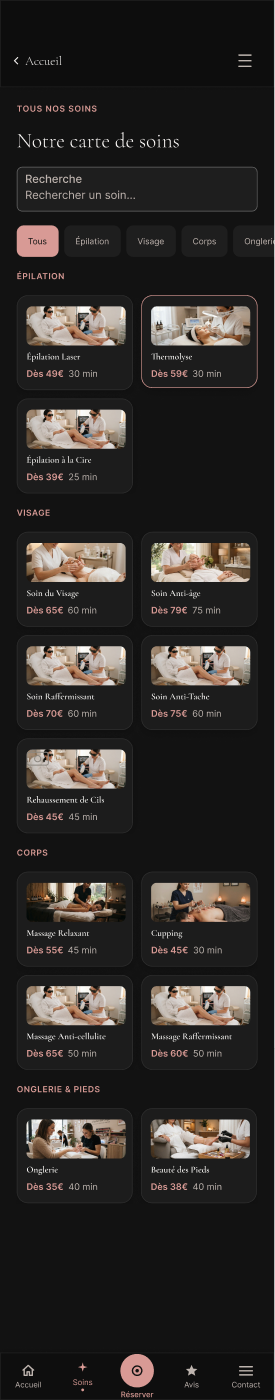
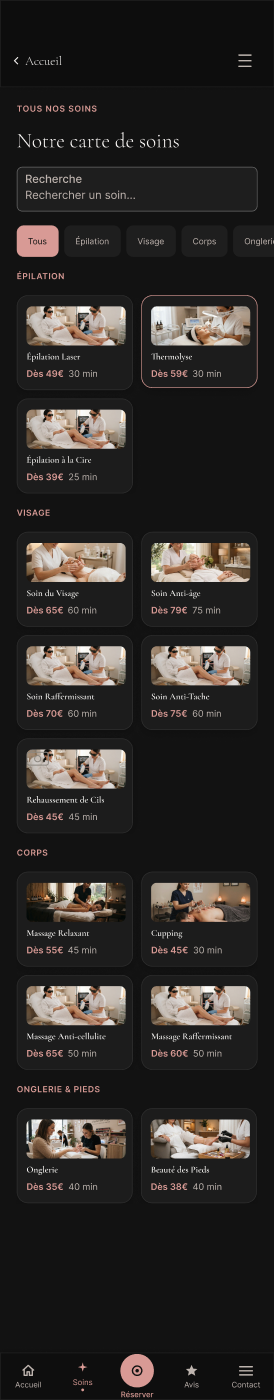
Images Ô Natur'Elle : suppression d'une ligne claire sur le bord droit

diff --git a/nl/index.html b/nl/index.html
@@ -117,7 +117,7 @@
       </div>
 
       <div class="collage" role="img" aria-label="Voorbeelden van realisaties: schermen van Ô Natur'Elle en Belvantage">
-        <div class="phone p1"><img src="../img/onaturelle-liste-soins.png" width="275" height="1400" alt=""></div>
+        <div class="phone p1"><img src="../img/onaturelle-liste-soins.png" width="274" height="1400" alt=""></div>
         <div class="phone p2"><img src="../img/onaturelle-diagnostic.png" width="393" height="861" alt=""></div>
         <div class="phone p3"><img src="../img/fidelite-accueil.png" width="420" height="900" alt=""></div>
         <span class="sticker">Ontworpen door acvisuals<small>Ô Natur'Elle · Belvantage</small></span>
@@ -189,8 +189,8 @@
       <div class="works">
         <article class="work rv" id="w-onaturelle">
           <div class="work-media">
-            <div class="shot"><img src="../img/onaturelle-liste-soins.png" width="275" height="1400" loading="lazy" alt="Ô Natur'Elle — behandelingen"></div>
-            <div class="shot"><img src="../img/onaturelle-reservation.png" width="367" height="900" loading="lazy" alt="Ô Natur'Elle — reservering in 3 stappen"></div>
+            <div class="shot"><img src="../img/onaturelle-liste-soins.png" width="274" height="1400" loading="lazy" alt="Ô Natur'Elle — behandelingen"></div>
+            <div class="shot"><img src="../img/onaturelle-reservation.png" width="366" height="900" loading="lazy" alt="Ô Natur'Elle — reservering in 3 stappen"></div>
             <div class="shot logo"><img src="../img/onaturelle-logo.jpeg" width="768" height="1024" loading="lazy" alt="Logo van Ô Natur'Elle, met de hand getekend"></div>
           </div>
           <div>

diff --git a/index.html b/index.html
@@ -117,7 +117,7 @@
       </div>
 
       <div class="collage" role="img" aria-label="Aperçu de réalisations : écrans Ô Natur'Elle et Belvantage">
-        <div class="phone p1"><img src="img/onaturelle-liste-soins.png" width="275" height="1400" alt=""></div>
+        <div class="phone p1"><img src="img/onaturelle-liste-soins.png" width="274" height="1400" alt=""></div>
         <div class="phone p2"><img src="img/onaturelle-diagnostic.png" width="393" height="861" alt=""></div>
         <div class="phone p3"><img src="img/fidelite-accueil.png" width="420" height="900" alt=""></div>
         <span class="sticker">Conçu par acvisuals<small>Ô Natur'Elle · Belvantage</small></span>
@@ -189,8 +189,8 @@
       <div class="works">
         <article class="work rv" id="w-onaturelle">
           <div class="work-media">
-            <div class="shot"><img src="img/onaturelle-liste-soins.png" width="275" height="1400" loading="lazy" alt="Ô Natur'Elle — carte des soins"></div>
-            <div class="shot"><img src="img/onaturelle-reservation.png" width="367" height="900" loading="lazy" alt="Ô Natur'Elle — réservation en 3 étapes"></div>
+            <div class="shot"><img src="img/onaturelle-liste-soins.png" width="274" height="1400" loading="lazy" alt="Ô Natur'Elle — carte des soins"></div>
+            <div class="shot"><img src="img/onaturelle-reservation.png" width="366" height="900" loading="lazy" alt="Ô Natur'Elle — réservation en 3 étapes"></div>
             <div class="shot logo"><img src="img/onaturelle-logo.jpeg" width="768" height="1024" loading="lazy" alt="Logo Ô Natur'Elle dessiné à la main"></div>
           </div>
           <div>

diff --git a/en/index.html b/en/index.html
@@ -117,7 +117,7 @@
       </div>
 
       <div class="collage" role="img" aria-label="Work samples: screens from Ô Natur'Elle and Belvantage">
-        <div class="phone p1"><img src="../img/onaturelle-liste-soins.png" width="275" height="1400" alt=""></div>
+        <div class="phone p1"><img src="../img/onaturelle-liste-soins.png" width="274" height="1400" alt=""></div>
         <div class="phone p2"><img src="../img/onaturelle-diagnostic.png" width="393" height="861" alt=""></div>
         <div class="phone p3"><img src="../img/fidelite-accueil.png" width="420" height="900" alt=""></div>
         <span class="sticker">Designed by acvisuals<small>Ô Natur'Elle · Belvantage</small></span>
@@ -189,8 +189,8 @@
       <div class="works">
         <article class="work rv" id="w-onaturelle">
           <div class="work-media">
-            <div class="shot"><img src="../img/onaturelle-liste-soins.png" width="275" height="1400" loading="lazy" alt="Ô Natur'Elle — treatment menu"></div>
-            <div class="shot"><img src="../img/onaturelle-reservation.png" width="367" height="900" loading="lazy" alt="Ô Natur'Elle — 3-step booking"></div>
+            <div class="shot"><img src="../img/onaturelle-liste-soins.png" width="274" height="1400" loading="lazy" alt="Ô Natur'Elle — treatment menu"></div>
+            <div class="shot"><img src="../img/onaturelle-reservation.png" width="366" height="900" loading="lazy" alt="Ô Natur'Elle — 3-step booking"></div>
             <div class="shot logo"><img src="../img/onaturelle-logo.jpeg" width="768" height="1024" loading="lazy" alt="Ô Natur'Elle logo, hand-drawn"></div>
           </div>
           <div>
